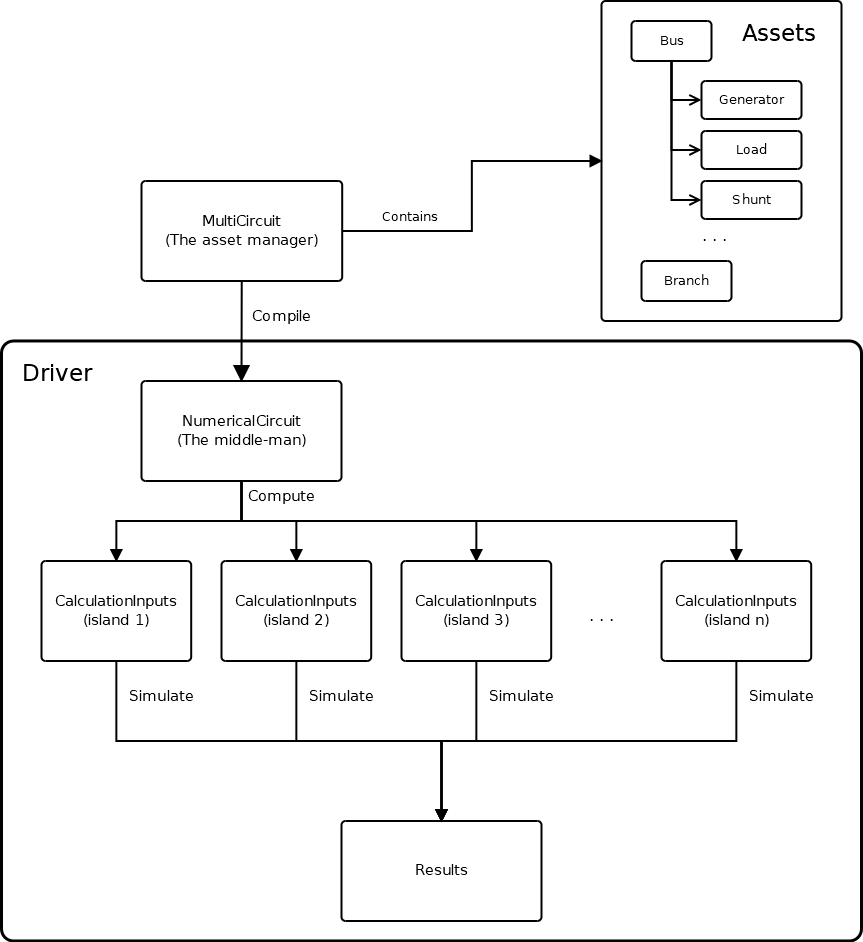
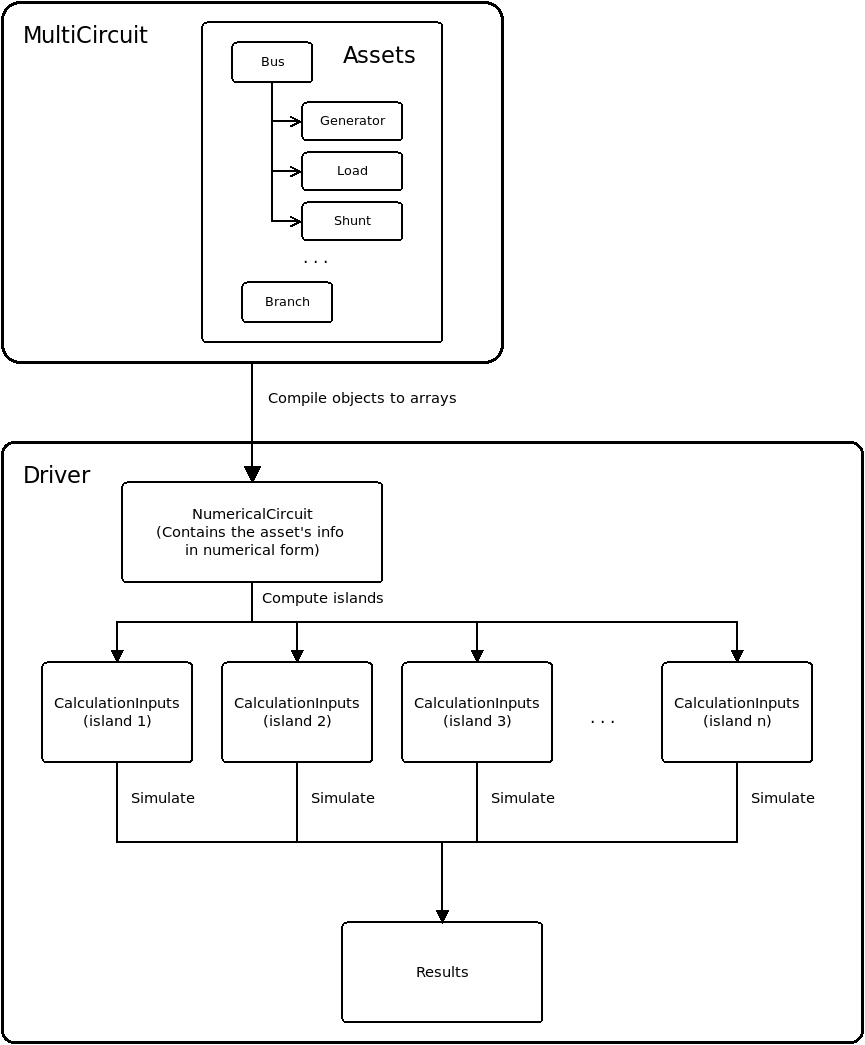
Improved compilation process diagram

diff --git a/doc/theory/from_objects_to_matrices.rst b/doc/theory/from_objects_to_matrices.rst
@@ -36,9 +36,6 @@ there is a careful equilibrium between usability and performance.
 
 .. figure:: ../figures/CompilationProcess.png
     :alt: Compilation process
-    :width: 1004px
-    :height: 562px
-    :scale: 70%
 
     Objects compilation process
 
